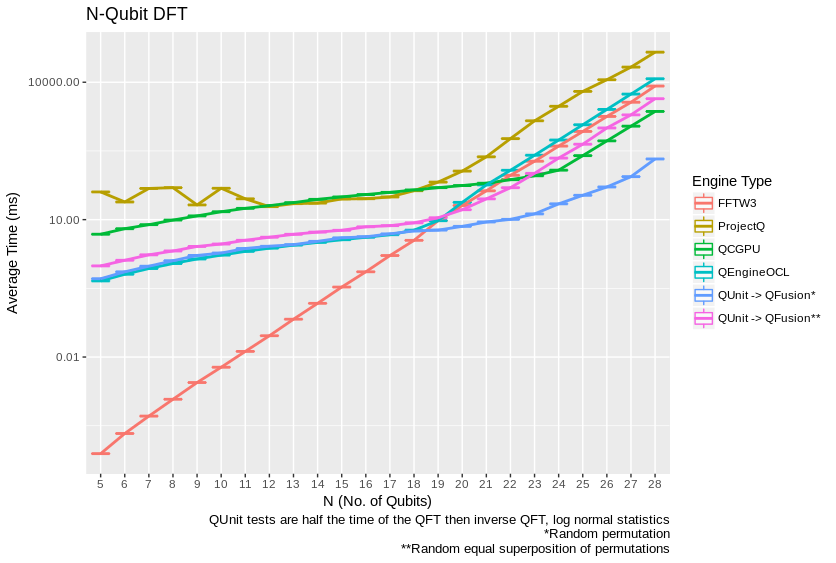
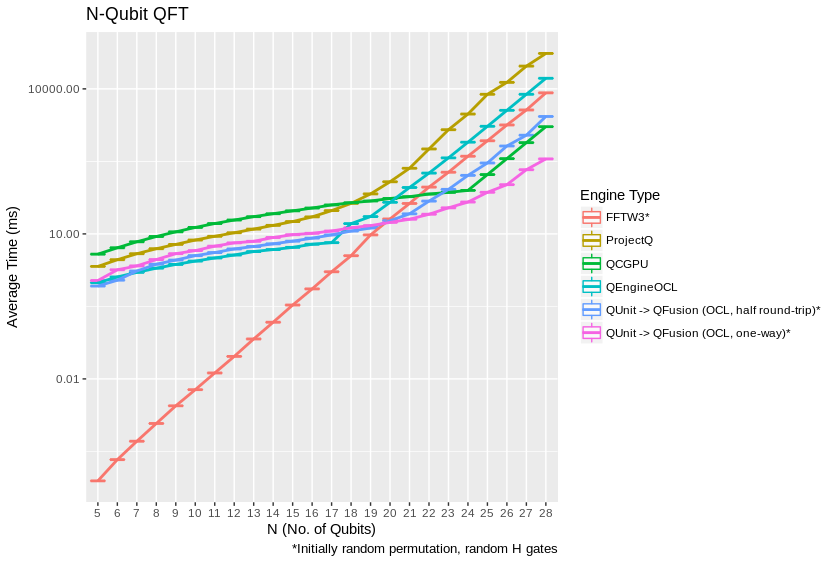
Benchmarks 2019-10-20

diff --git a/docs/performance.rst b/docs/performance.rst
@@ -23,18 +23,17 @@ Introduction
 There are a growing number of quantum simulators available for research and
 industry use.  Many of them perform quite well for smaller number of qubits,
 and are suitable for non-rigorous experimental explorations.  Fewer projects
-are suitable for the growing mid-tier range of experimentation in the 20-30
-qubit range.
+are suitable as "high performance" candidates in the >32 qubit range. Many 
+rely on the common approach often described as the "Schrödinger method," 
+doubling RAM usage by a factor of 2 per fully interoperable qubit, or else 
+Feynman path integrals, which can become intractible at arbitrary circuit depth.
+Attempting to build on the work of IBM's `Breaking the 49-Qubit Barrier in the Simulation of Quantum Circuits` [Pednault2017]_ paper, 
+with more recent attention to potential improvements inspired by Gottesman-Knill stabilizer simulators,
+Qrack can execute surprisingly general circuits up to 63 qubits in width on modest single nodes, 
+such as constrained cases of the QFT.
 
-Despite the availability of a selection of implementations, very little has
-been established when comparing the performance between different simulators.
-Broadly, the substantial bottlenecks around memory and IO utilization have
-largely preempted analysis into CPU efficiencies and algorithmic
-optimizations.  There are some exceptions, such as IBM's `Breaking the
-49-Qubit Barrier in the Simulation of Quantum Circuits` [Pednault2017]_ paper.
-
-Qrack provides high performance up to at least the 30 qubit range, particularly as an
-open-source option, implemented in C++, suitable for utilization in a wide variety
+Qrack is an open-source quantum computer simulator option, implemented in C++, 
+supporting integration into other popular compilers and interfaces, suitable for utilization in a wide variety
 of projects.  As such, it is an ideal test-bed for establishing a set of
 benchmarks useful for comparing performance between various quantum
 simulators.
@@ -43,13 +42,13 @@ Qrack provides a "QEngineCPU" and a "QEngineOCL" that represent non-OpenCL and
 OpenCL base implementations, which could also be the most efficient types to 
 use directly in the limit of maximal entanglement. For general use cases, 
 the "QUnit" layer provides explicit Schmidt decomposition on top of another 
-engine type, (per [Pednault2017]_,) and "QFusion" provides a "gate fusion" 
+engine type (per [Pednault2017]_) and "QFusion" provides a "gate fusion" 
 layer. A "QEngine" type is always the base layer, and QUnit and QFusion types 
 may be layered over these, and over each other.
 
 This version of the Qrack benchmarks contains comparisons against other
 publicly available simulators, specifically QCGPU and ProjectQ (with its
-default simulator). Note that Qrack has been incorporated as an optional
+default simulator). Qrack has been incorporated as an optional
 back end for ProjectQ, in a fork maintained by the developers of Qrack, and
 benchmarks for its performance will follow.
 
@@ -75,22 +74,29 @@ Disclaimers
 Method
 ******
 
-100 timed trials of single and parallel gates were run for each qubit count between 5 and 28 qubits. The benchmarking code is available at `https://github.com/vm6502q/qrack/blob/master/test/benchmarks.cpp <https://github.com/vm6502q/qrack/blob/master/test/benchmarks.cpp>`_, in which qubit count can be set and tests can be commented out to reduce to the relevant subset. (Specifically, the branch "benchmarks_2019-05-27" was used, branched off of "qunitmulti," pending the latter branch's merge into master.)
+100 timed trials of single and parallel gates were run for each qubit count between 5 and 28 qubits. The benchmarking code is available at `https://github.com/vm6502q/qrack/blob/master/test/benchmarks.cpp <https://github.com/vm6502q/qrack/blob/master/test/benchmarks.cpp>`_, in which qubit count can be set and tests can be selected on the command line. (Specifically, the branch "benchmarks_2019-10-19" was used.)
 
-CPU and GPU benchmarks were run on two respective systems that could represent realistic use cases for each engine type. An AWS p3.2xlarge running Ubuntu Server 18.04LTS was used for GPU benchmarks. An Alienware 17 R5 with an Intel(R) Core(TM) i7-8750H running Ubuntu 18.04LTS was used for Qrack CPU benchmarks and FFTW3. Updated Qrack GPU benchmarks, and benchmarks for FFTW3, were collected May 27th, 2019. These results were combined with an earlier set of test results collected starting on the night of December 19th, 2018 into the morning of December 20th, and additional quantum Fourier transform ("QFT"/"DFT") benchmarks were collected on the night of January 5th, 2019 into the morning of January 6th. To reduce cost, code revisions on Github were compared between December 19th, 2018 and May 19th 2019, for QCGPU and ProjectQ, and lower qubit counts were run to determine that there is no significant change in the set of benchmarks from December and January. (If this is in error, we took care to try to report fair tests, within cost limitations, but please let us know.)
+CPU and GPU benchmarks were run on two respective systems that could represent realistic use cases for each engine type. An AWS p3.2xlarge running Ubuntu Server 18.04LTS was used for GPU benchmarks. An Alienware 17 R5 with an Intel(R) Core(TM) i7-8750H running Ubuntu 18.04LTS was used for Qrack CPU benchmarks and FFTW3. QFT Benchmarks for FFTW3 were collected May 27th, 2019. QFT benchmarks for Qrack, ProjectQ, and QCGPU were collected on October 20th, 2019. Limited testing of Qrack for QFTs in excess of 32 qubits was done on both of these systems from October 17th through 20th. These results were combined with single gate, N-width gate and Grover's search benchmarks for Qrack, collected overnight from December 19th, 2018 into the morning of December 20th. (The potential difference since December in the particular Qrack tests reused from then should be insignificant. We took care to try to report fair tests, within cost limitations, but please let us know if you find anything that appears misrepresentative.)
 
 The average and quartile boundary values of each set of 100 were recorded and graphed. Grover's search to invert a black box subroutine, or "oracle," was similarly implemented for trials between 5 and 20 qubits, for QEngineOCL with and without QUnit and QFusion layers. Grover's algorithm was iterated an optimal number of times, vs. qubit count, to maximize probability on a half cycle of the algorithm's period, being :math:`floor\left[\frac{\pi}{4asin^2\left(1/\sqrt{2^N}\right)}\right]` iterations for :math:`N` qubits.
 
-A quantum Fourier transform was run for 100 trials between 5 and 28 qubits on the GPU engine types. ProjectQ, QCGPU, and FFTW3 were also benchmarked for this test. ProjectQ and QCGPU were tested on an AWS p3.2xlarge running Ubuntu Server 18.04LTS, with the benchmarking code provided by QCGPU, accessed from its Github repository on 12/1/18, in Python 3. The benchmarking script available from QCGPU iterates at random between the engine options, but it was slightly modified to alternate between trials of ProjectQ and QCGPU, to get exactly 100 samples apiece per qubit count. FFTW3 was tested on the aforementioned 17 R5, in "in-place" mode, since all other DFT tests are effectively "in-place" method, here.
+A quantum Fourier transform was run for 100 trials between 5 and 28 qubits on the GPU engine types. ProjectQ, QCGPU, and FFTW3 were also benchmarked for this test. ProjectQ and QCGPU were tested on an AWS p3.2xlarge running Ubuntu Server 18.04LTS, with the benchmarking code provided by QCGPU, accessed from its Github repository on October 20th, 2019, in Python 3. The QCGPU benchmark script was modified, however, specifically in only the following ways:
 
-QUnit was analyzed based on half its round trip time, for the application of the QFT followed by its inverse. This is a representative test of Qrack::QUnit performance, because QFT of a permutation basis eigenstate is generally much faster than the inverse operation applied to the result. QUnit explicitly separates the representation of qubit subsystems when it can, such that performance differs greatly between entirely separable and entirely entangled cases, hence we need to show various representative cases. Separability considerations do not affect maximally entangled representations, as are all other simulators tested here, (though ProjectQ includes a compilation layer on top of its default simulator). 
+1. Qiskit benchmarks were disabled. (On the test system, Qiskit took in excess of 7 seconds per QFT iteration at 20 qubits, and further testing would have quickly become cost and time prohibitive.)
+2. State initialization for QCGPU and ProjectQ was moved *outside* of the timed portions of the benchmark loop, for equivalence to Qrack benchmarks.
+3. A Hadamard gate call in the ProjectQ benchmarks was indented to repeat once per outer loop, rather than once in an entire trial. (It seemed clear to us that this was an indentation typo in the original script, as the "textbook" form of the QFT uses one "H" gate per bit, not one in total.)
 
-Heap usage was established as very closely matching theoretical in eariler benchmarks, and this has not fundamentally changed. Heap profiling was carried out with Valgrind Massif. Heap sampling was limited but ultimately sufficient to show statistical confidence.
+
+The benchmarking script available from QCGPU iterates at random between the engine options, and 200 trials were collected between the two libraries it was used to benchmark. FFTW3 was tested on the aforementioned 17 R5, in "in-place" mode, since all other DFT tests are effectively "in-place" method, here.
+
+Qrack's QUnit was analyzed both on its direct and sole execution of the QFT, as well as compared to half its round trip time for the application of the QFT followed by its inverse. Performance is greatly dependent on input state; the domain was restricted to states formed from random application of H gates, with 50% probability, to every bit of a randomly selected permutation. These two tests are reasonably representative of QUnit performance, because the forward QFT is generally much faster than the inverse operation applied to the QFT's result, or following the QFT with general circuits of significant depth. Initial or post-operation state considerations do not affect maximally entangled Schrödinger method representations, as are all other simulators tested here, (though ProjectQ includes a compilation layer on top of its default simulator, which is not targeted by these tests).
+
+Qrack QEngine type heap usage was established as very closely matching theoretical expections, in earlier benchmarks, and this has not fundamentally changed. QUnit type heap usage varies greatly dependent on use case, though not in significant excess of QEngine types. No representative RAM benchmarks have been established for QUnit types, yet. QEngine Heap profiling was carried out with Valgrind Massif. Heap sampling was limited but ultimately sufficient to show statistical confidence.
 
 Results
 *******
 
-We observed extremely close correspondence with theoretical complexity and RAM usage considerations for the behavior of all engine types. QEngineCPU and QEngineOCL require exponential time for a single gate on a coherent unit of N qubits. QUnit types with explicitly separated subsystems as per [Pednault2017]_ show constant time requirements for the same single gate.
+We observed extremely close correspondence with Schrödinger method theoretical complexity and RAM usage considerations for the behavior of QEngine types. QEngineCPU and QEngineOCL require exponential time for a single gate on a coherent unit of N qubits. QUnit types with explicitly separated subsystems as per [Pednault2017]_ show constant time requirements for the same single gate.
 
 .. image:: performance/x_single.png
 
@@ -102,11 +108,11 @@ QEngineCPU and QEngineOCL can perform many identical gates in parallel across en
 
 .. image:: performance/cnot_all.png
 
-Heap sampling showed high confidence adherence to theoretical expecations. Complex numbers are represented as 2 single (32-bit) or 2 double (64-bit) accuracy floating point types, for real and imaginary components. The use of double or single precision is controlled by a compilation flag. There is one complex number per permutation in a separable subsystem of qubits. QUnit explicitly separates subsystems, while QEngine maintains complex amplitudes for all :math:`2^N` permutations of :math:`N` qubits. QEngines duplicate their state vectors once during many gates, like arithmetic gates, for speed and simplicity where it eases implementation.
+Heap sampling supports theoretical expecations to high confidence. Complex numbers are represented as 2 single (32-bit) or 2 double (64-bit) accuracy floating point types, for real and imaginary components. The use of double or single precision is controlled by a compilation flag. There is one complex number per permutation in a separable subsystem of qubits. QUnit explicitly separates subsystems, while QEngine maintains complex amplitudes for all :math:`2^N` permutations of :math:`N` qubits. QEngines duplicate their state vectors once during many gates, like arithmetic gates, for speed and simplicity where it eases implementation.
 
 .. image:: performance/qrack_ram.png
 
-QUnit explicitly separates its representation of the quantum state and may operate with much less RAM, but QEngine's RAM usage represents approximately the worst case for QUnit, of maximal entanglement. OpenCL engine types attempt to use memory on the accelerator device instead of general heap when a QEngineOCL instance can fit a single copy of its state vector in a single allocation on the device, and when the total available device global memory is more than three times the size of the state vector. On many modern devices, state vectors up to about 1GB in size can be allocated directly on the accelerator device instead of using general heap. A auxiliary buffer used for normalization is half the size of the state vector, and this buffer is always allocated in general heap. 
+QUnit explicitly separates its representation of the quantum state and may operate with much less RAM, but QEngine's RAM usage represents approximately the worst case for QUnit, of maximal entanglement. OpenCL engine types attempt to use memory on the accelerator device instead of general heap when a QEngineOCL instance can fit a single copy of its state vector in a single allocation on the device. On many modern devices, state vectors up to about 1GB in size can be allocated directly on the accelerator device instead of using general heap. A auxiliary buffer used for normalization is half the size of the state vector, and this buffer is always allocated in general heap.
 
 Grover's algorithm is a relatively ideal test case, in that it allows a modicum of abstraction in implementation while representing an ostensibly practical and common task for truly quantum computational hardware. For 1 expected correct function inversion result, there is a well-defined highest likelihood search iteration count on half a period of the algorithm for a given number of oracle input permutations to search. Time required to run the test for QEngineCPU up to 20 qubits became prohibitive, hence we leave its variants off the graph. However, we can establish baseline for OpenCL performance, with Grover's search, and compare the performance of a "QEngine-method" to a "QUnit-method." This graphs shows average time against qubit count for an optimal half period search:
 
@@ -114,38 +120,42 @@ Grover's algorithm is a relatively ideal test case, in that it allows a modicum 
 
 [Broda2016]_ discusses how Grover's might be adapted in practicality to actually "search an unstructured database," or search an unstructured lookup table, and Qrack is also capable of applying Grover's search to a lookup table with its IndexedLDA, IndexedADC, and IndexedSBC methods. Benchmarks are not given for this arguably more practical application of the algorithm, because few other quantum computer simulator libraries implement it, yet.
 
-The "quantum" (or "discrete") Fourier transform (QFT/DFT) is another realistic test case. Other simulators were also tested on the QFT, including QCGPU, ProjectQ, and FFTW3, (which is not explicitly quantum simulatory software). 
-
-QEngineCPU took approximately 100 seconds per 1 trial (of 100) for 22 qubits and approximately 200 seconds for a 23 qubit QFT, and testing the QEngineCPU type therefore become prohibitive, for the full range of qubits between 5 and 28. To avoid confusion in the graph, and since QEngineCPU might therefore be impractical for large QFTs, we leave both it and its QUnit/QFusion variant off the graph.
+The "quantum" (or "discrete") Fourier transform (QFT/DFT) is another realistic test case. Other simulators were also tested on their QFT execution time, including QCGPU, ProjectQ, and FFTW3, (which is not explicitly quantum computer simulator software). For ease of comparison, in consideration of realistic use cases, the only Qrack options include are the (Schrödinger method) QEngineOCL and the one thought to be best for general use, "QUnit" (Schmidt-decomposition) layered on "QFusion" ("gate fusion") layered on a collection of "QEngineOCL" instances (OpenCL Schrödinger method base engines).
 
 .. image:: performance/qft.png
 
-QEngineOCL generally outperforms the default simulator "backend" for ProjectQ. However, Qrack has also been wrapped as an optional backend for ProjectQ, and benchmarks for this layering of both projects will follow.
+Both QEngineOCL and QUnit generally outperform the default simulator "backend" for ProjectQ. However, Qrack has also been wrapped as an optional backend for ProjectQ, and benchmarks for this layering of both projects will follow.
 
-For lower numbers of qubits, QEngineOCL outperforms QCGPU. Both simulators follow a trend that appears to reach a knee of faster exponential growth. The "knee" comes at a lower number of qubits for QEngineOCL than for QCGPU, at about 19 or 18 qubits, versus 25 or 24 qubits for QCGPU.
+Though we are comparing CPU to GPU, CPU-based FFTW3 is clearly the best suited for low numbers of qubits, in general. After FFTW3, QEngineOCL outperforms QCGPU for low qubit widths. Both OpenCL simulators follow a trend that appears to reach a knee of faster exponential growth. The "knee" comes at a lower number of qubits for QEngineOCL than for QCGPU, at about 19 or 18 qubits, versus 25 or 24 qubits for QCGPU.
 
-QUnit was analyzed based on half its round trip time, for the application of the QFT followed by its inverse. The distribution of its times was log normal for the random input state distributions selected, so the times given are "exponent-mean-log," 2 raised to the mean of the log base 2 of the trial times, for which the mean closely matches the median and the standard deviations are consistently very small. QUnit represents its state vector in terms of decomposed subsystems, when possible and efficient. After an operation that should disentangle subsystems, QUnit will attempt to separate the representations of independent subsystems, in the course of further controlled gates, recovering a factor of 1/2 for each separated bit of subsystem RAM and gate application time for further gates. QUnit outperforms all other simulators analyzed, when transforming a permutation basis eigenstate. A linear superposition of permutation states probably represents a realistic and fairly general set of inputs or outputs for the QFT; QUnit times outpeform QEngineOCL times and come within a factor of 2, at high end, for a random linear superposition of permutation basis input states.
+QUnit was analyzed based both on its QFT time alone, and on half its round-trip time for the QFT followed by its inverse. The distribution of its times was log normal for the random input state distributions selected, so the times given are "exponent-mean-log," 2 raised to the mean of the log base 2 of the trial times, for which the mean closely matches the median and the standard deviations are consistently very small. QUnit represents its state vector in terms of decomposed subsystems, when possible and efficient. On user and internal probability checks, QUnit will attempt to separate the representations of independent subsystems effectively by Schmidt decomposition. Further, it proactively attempts to avoid entanglement of representation in controlled and arithmetic gates. For each bit whose representation is separated this way, we recove a factor of close to or exactly 1/2 the subsystem RAM and gate execution time. Under the domain constraints, QUnit outperforms all other simulators analyzed, one-way at high qubit counts.
+
+Since QUnit does not necessarily require the exponentially scaling resources of the "Schrödinger method," the authors thought to test it informally at much higher qubit counts. Qrack was initially designed in expectation that it might scale past 32 qubits, and 64 qubits was consciously chosen as the maximum potential allocation limit per single coherent instance, with easy ways to expand should 128 integral types become commonly available as a standard. A recently resolved issue opened by a third party on the Qrack Github repo prompted the authors to test and ensure support above the 32 qubit level, giving us confidence that addressing is now reliable up to 63 qubits. (Our tests do point to instability specifically in the 64th bit, commonly reserved for numerical sign in the 64 bit integral types Qrack relies on for qubit addressing.) One-way QFT benchmarks as in the graph above were left to run overnight starting October 17th, 2019 on the same Alienware 17 as other reported benchmarks, and no instability was detected from 4 to 63 qubits, for 100 random trials apiece. Execution time appears to plateau around the mid-30 qubit range; for quantitative point of reference, we report that 100 random trials of the 63 qubit QFT on an AWS p3.2xlarge completed on average (log-normal) in 19.0 seconds, the fastest taking 13.5 seconds and the slowest taking 28.3 seconds. (Remember that the domain was limited to states constructed from random Hadamard gates on bits of a random permutation.)
 
 Discussion
 **********
 
-Up to a consistent deviation at low qubit counts, speed and RAM usage is well predicted by theoretical complexity considerations of the gates, up to about a factor of 2 on heap usage for duplication of the state vector, with additional 1/2 the size of state vector allocated by QEngineOCL for an auxiliary normalization buffer.
+Up to a consistent deviation at low qubit counts, speed and RAM usage for Schrödinger method "QEngine" types is well predicted by theoretical complexity considerations of the gates, up to about a factor of 2 on heap usage for duplication of the state vector, with additional 1/2 the size of state vector allocated by QEngineOCL for an auxiliary normalization buffer. For the additional overhead in the comparative QFT benchmarks, the difference between QCGPU and QEngineOCL might come down to Qrack's support for a more general API and set of compatible systems.
 
-For the additional overhead in the comparative QFT benchmarks, the difference between QCGPU and Qrack might come down to support for a much more general API and set of compatible systems, for Qrack. For example, Qrack is written for scalable work distribution in the OpenCL kernels. QEngineOCL is written to distribute work among an arbitrarily small number of processing elements and max work item size. Max work item size is a device-specific hardware parameter limiting how many work items may be dispatched in an OpenCL kernel call. QEngineOCL can distribute large numbers of probability amplitude transformations to small numbers of work items, incurring additional looping overhead, whereas QCGPU is written to dispatch one work item to one processing element. QCGPU requires a large enough hardware max work item size to add higher numbers of qubits, which might or not might not prove prohibitive in addressing the largest possible amount of general RAM on typical GPUs. Whereas QCGPU might not be, Qrack is theoretically compatible with OpenCL devices with smaller maximum work item counts, potentially such as CPUs. Additionally, Qrack give the option to normalize its state vector at on-the-fly opportunities, to correct for float rounding error, incurring overhead costs but benefiting the accuracy of the simulation over very long strings of gate applications. (Normalization was off in all benchmarks, but "host code" must switch between these options.) QEngineOCL was also designed to support access by separate QEngineOCL instances in different threads to shared OpenCL devices, as well as optional out-of-order OpenCL queue execution, when available, which might add host overhead. Further, depending on build options, Qrack can be built compatible with purely 32-bit systems.
+Qrack is written for scalable work distribution in the OpenCL kernels. QEngineOCL will distribute work among an arbitrarily small number of processing elements and max work item size than state vector size. Max work item size is a device-specific hardware parameter limiting how many work items may be dispatched in an OpenCL kernel call. QEngineOCL can distribute large numbers of probability amplitude transformations to small numbers of work items, incurring additional looping overhead, whereas QCGPU is written to dispatch one work item to one processing element. QCGPU requires a large enough hardware max work item size to add higher numbers of qubits. Whereas QCGPU might not be, Qrack is theoretically compatible with OpenCL devices with smaller maximum work item counts, such as CPUs like the ARM7, on which Qrack has been regularly unit tested.
+
+Qrack gives the option to normalize its state vector at on-the-fly opportunities, to correct for float rounding error, incurring overhead costs but benefiting the accuracy of the simulation over very long strings of gate applications. (Normalization was off in all benchmarks, but "host code" must switch between these options.) QEngineOCL was designed to support access by separate QEngineOCL instances in different threads to shared OpenCL devices, as well as optional out-of-order OpenCL queue execution, when available. QEngine types can dispatch a queue of gates completely asynchronously, without blocking the main execution thread. Runtime options and design features to support a broad range of platforms do add to Qrack's execution overhead, but these make Qrack the best all-around quantum computer simulator for personal and heterogeneous hardware. 
 
 Further Work
 ************
 
 Qrack previously contained two experimental multiprocessor types, "QEngineOCLMulti" based on the algorithms developed in Intel's [QHiPSTER]_, and the simpler QUnitMulti type, which dispatches different separable subsystems to different processors. These failed to outperform the single processor QEngineOCL. However, as Qrack has added optional support as a simulator for ProjectQ, we have effectively gained access to the quantum network simulator "SimulaQron" by SoftwareQuTech. At least one Qrack user is experimenting with scaling deployments of containers loaded with Qrack, ProjectQ, and SimulaQron as effective solution for multiprocessor and cluster operations, and the Qrack Team is looking at this and related approaches for this purpose. An asynchronous quantum P2P model, for effective multiprocessor support, should hopefully reduce inter-device communication overhead bottlenecks.
 
-With a new generation of "VPU" processors coming in 2019, (for visual inference,) it might be possible to co-opt VPU capabilities for inference of raw state vector features, such as Schmidt separability, to improve the performance of QUnit. The authors of Qrack have started looking at this hardware for this purpose.
+Qrack seems to nearly be a strict super set of Gottesman-Knill "classically efficient" stabilizer simulators. Qracks supports freely invoking gates outside of a stabilizer's efficient Clifford algebra, as well as fundamental algorithmic improvements outside of any Clifford algebra. It is a high and immediate priority for the authors to handle the one or few remaining cases of CNOT gate optimization needed for a classically efficient strict super set of a Clifford algebra.
+
+With the new generation of "VPU" processors coming in 2019 and 2020, (for visual inference,) it might be possible to co-opt VPU capabilities for inference of raw state vector features, such as Schmidt separability, to improve the performance of QUnit. The authors of Qrack have started looking at this hardware for this purpose.
 
 We will maintain systematic comparisons to published benchmarks of quantum computer simulation standard libraries, as they arise.
 
 Conclusion
 **********
 
-Per [Pednault2017]_, explicitly separated subsystems of qubits in QUnit have a significant RAM and speed edge in many cases over the "Schrödinger algorithm" of QEngineCPU and QEngineOCL. One of Qrack's most novel optimizations is constant complexity or "free" scaling of bitwise parallelism in entangled subsystems, compared to linear complexity scaling without this optimization. Qrack gives very efficient performance on a single node up to at least about 30 qubits, up to the limit of maximal entanglement.
+Per [Pednault2017]_, explicitly separated subsystems of qubits in QUnit have a significant RAM and speed edge in many cases over the "Schrödinger algorithm" of QEngineCPU and QEngineOCL. Qrack gives very efficient performance on a single node past 32 qubits, up to the limit of maximal entanglement.
 
 Citations
 *********
